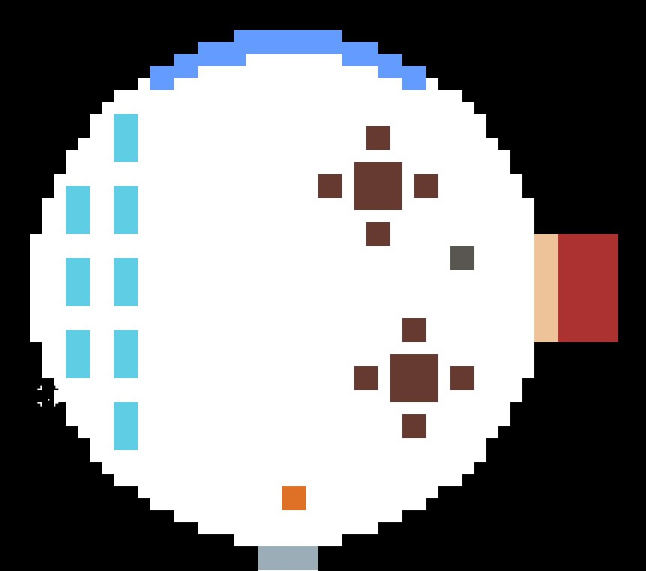
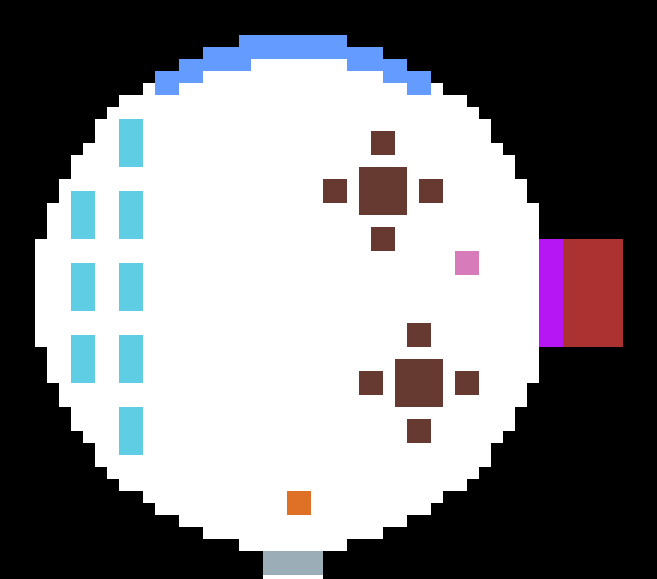
#12 Added level design for oxygenator to README
also updated the enemy colour for crew quarters (was missed in previous update when legend was created)

diff --git a/concept/README.md b/concept/README.md
@@ -67,6 +67,9 @@ Research Lab | 1 Normal, 1 Red, 1 Green, 1 Large + Recoil avoidance + Grav Plati
     * [ ] From the start of the game, the oxygen levels will start to drain. The player has 5 real-time minutes to defeat the spiders in this room before game over.
     * [ ] Interactible 1: The player can either shoot or interact with an oxygen canister to cause it to explode, resulting in a fire square that will destroy the enemy.
     * [ ] Interactible 2: After the spiders are destroyed, the player can interact with the computer console to shut down the oxygen timer and extinguish the fires.
+
+    ![Crew Quarters](images/02_oxygenator_layout.png)
+
 1. ### Medical Bay
     * Gather medical supplies for the journey home
     * Possibly heal/recruit a required crew member for launching the ship (your pilot)
